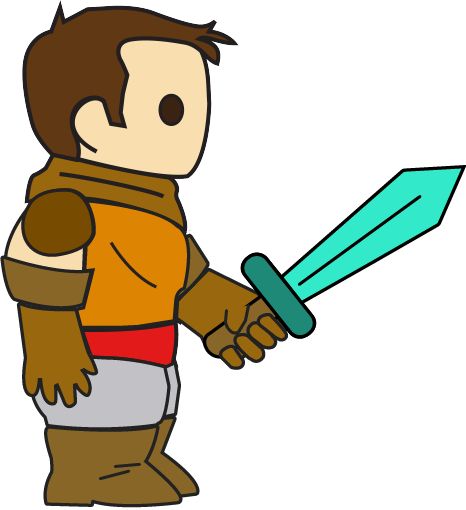
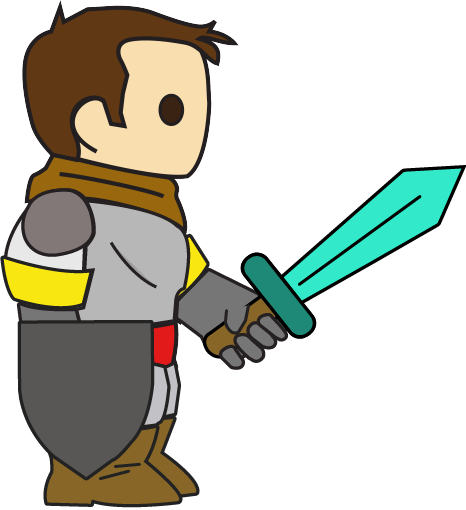
Character selection image updated

Changed region(s): [[0.0, 0.3529, 0.6309, 0.9412]]

diff --git a/client/core/src/com/mygdx/game/requests/Profile.java b/client/core/src/com/mygdx/game/requests/Profile.java
@@ -285,10 +285,10 @@ public class Profile {
         bi = ImageIO.read(new File("items/" + itemImages.get("fingers") + ".png"));
         g.drawImage(bi, 219, 304, null);
 
-//        if (itemImages.get("shield").equals(null) == false) {
-//            bi = ImageIO.read(new File("items/" + itemImages.get("shield") + ".png"));
-//            g.drawImage(bi, 17, 320, null);
-//        }
+        if (itemImages.get("shield").equals(null) == false) {
+            bi = ImageIO.read(new File("items/" + itemImages.get("shield") + ".png"));
+            g.drawImage(bi, 17, 320, null);
+        }
 
         ImageIO.write(result,"png",new File("result.png"));
 
